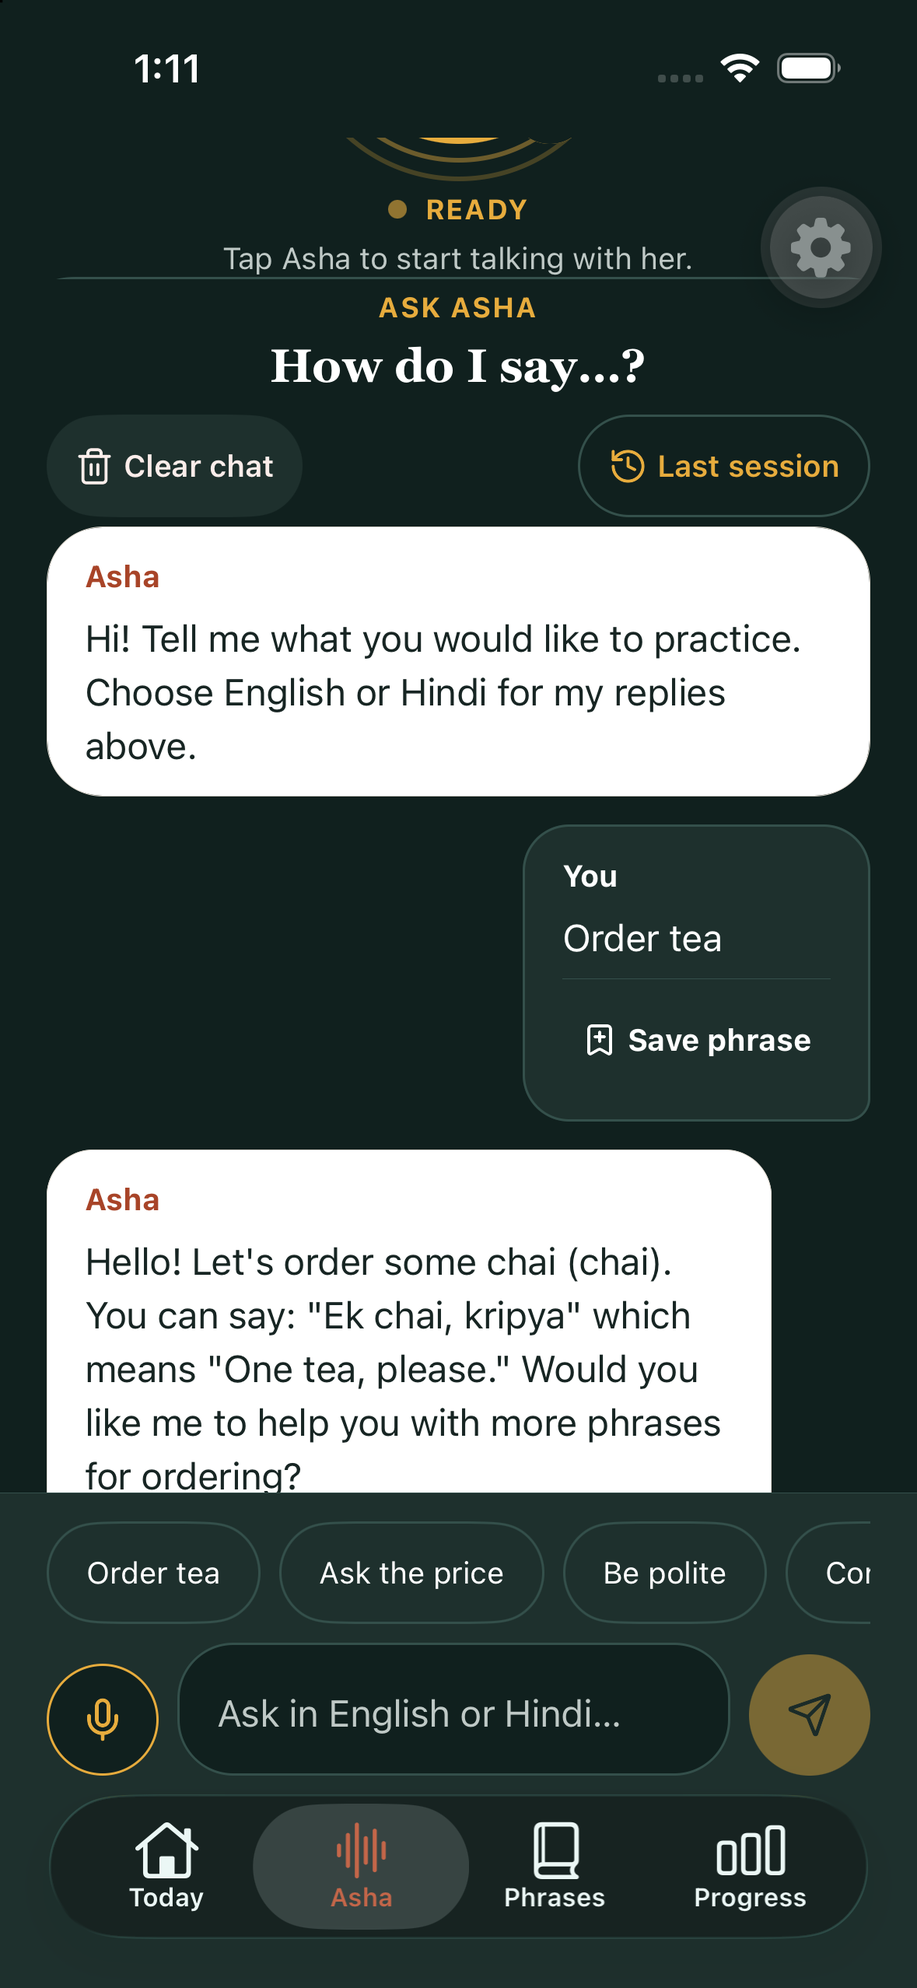
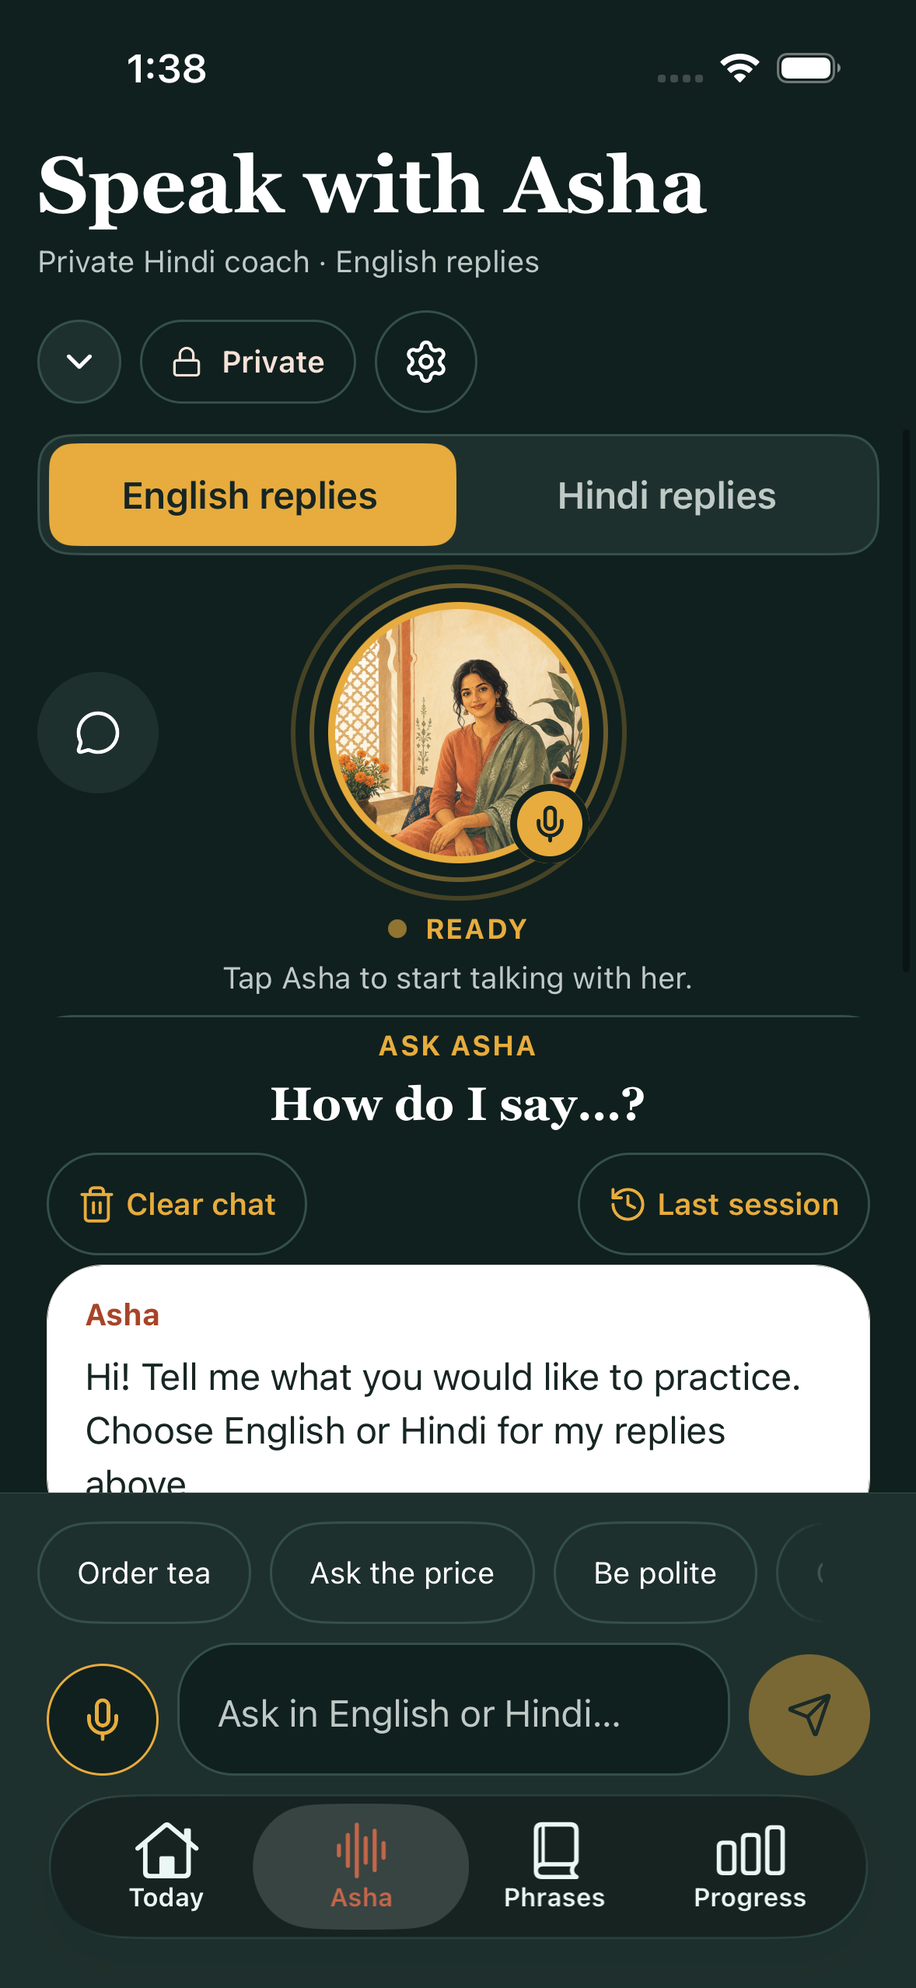
Pin Settings in the Asha header and soften the suggestion-chip peek.
The gear stays in the header, outside the chat scroll. Clear chat and Last session share one outline style. The chip row keeps a short faded peek inside a 16pt inset.

diff --git a/src/app/(tabs)/live.tsx b/src/app/(tabs)/live.tsx
@@ -2,7 +2,7 @@ import { useFocusEffect, useRouter, type Href } from 'expo-router';
 import { Image } from 'expo-image';
 import { setStatusBarStyle } from 'expo-status-bar';
 import { PressableFeedback } from 'heroui-native/pressable-feedback';
-import { AlertCircle, History, Lock, MessageCircle, Mic, MicOff, Sprout, Trash2, Volume2, X } from 'lucide-react-native';
+import { AlertCircle, History, Lock, MessageCircle, Mic, MicOff, Settings, Sprout, Trash2, Volume2, X } from 'lucide-react-native';
 import { useCallback, useEffect, useLayoutEffect, useMemo, useRef, useState, type ReactNode } from 'react';
 import { ActivityIndicator, Animated, AppState, Dimensions, FlatList, Keyboard, KeyboardAvoidingView, Linking, Platform, ScrollView, StyleSheet, Text, useWindowDimensions, View, type StyleProp, type ViewStyle } from 'react-native';
 import { SafeAreaView, useSafeAreaInsets } from 'react-native-safe-area-context';
@@ -41,6 +41,19 @@ import { isFloatingAshaMinimized, useAshaVoiceSession } from '@/state/asha-voice
 import { useAppState } from '@/state/app-state';
 import type { ChatMessage, AshaResponseLanguage, SavedPhrase, StructuredPhrase, StructuredReply } from '@/state/app-state-types';
 import { displayFont, hindiType, layout, makeStyles, maxContentWidth, radius, spacing, useTheme, type } from '@/theme';
+
+/** Width of the chip scroller so the next chip peeks by `peek` points inside `available`. */
+export function visibleChipRowWidth(widths: readonly number[], available: number, peek: number, gap: number): number {
+  if (available <= 0 || widths.length === 0 || widths.some((width) => width <= 0)) return available;
+  let cursor = 0;
+  for (let index = 0; index < widths.length; index += 1) {
+    const width = widths[index] ?? 0;
+    if (cursor + width > available) return Math.min(available, cursor + peek);
+    cursor += width;
+    if (index < widths.length - 1) cursor += gap;
+  }
+  return Math.min(available, cursor);
+}
 
 const welcome: ChatMessage = {
   id: 'welcome',
@@ -106,8 +119,8 @@ export default function LiveScreen() {
   const heroContentWidth = Math.max(288, Math.min(420, windowWidth - spacing.xxl));
   const compactVoiceLayout = windowHeight < 760;
   const largeTextLayout = useLargeTextLayout();
-  // 390 and wider fit the title and Private badge on one row. Narrower phones stack them.
-  const reflowHeaderLayout = largeTextLayout || fontScale >= 1.2 || windowWidth < 390;
+  // Settings shares this row, so a 393pt phone stacks the title above the actions.
+  const reflowHeaderLayout = largeTextLayout || fontScale >= 1.2 || windowWidth < 440;
   const { elapsedSeconds, reset: resetPracticeTimer, touch: touchPracticeTimer } = useForegroundTimer();
   const { addPracticeSeconds, aiConsent, appendChatMessages, replaceLiveChatSnapshot, chatHistory, clearChatHistory, clientId, learnerProfile, markLiveTurn, motionPreference = DEFAULT_MOTION_PREFERENCE, phraseReviews = {}, phrases = [], togglePhrase, updateLearnerProfile } = useAppState();
   const { mode: motionMode, reducedMotion } = useMotionPreference(motionPreference);
@@ -205,6 +218,9 @@ export default function LiveScreen() {
   }, []);
   const composerMicActionRef = useRef<(() => void) | null>(null);
   const [composerMicActionBound, setComposerMicActionBound] = useState(false);
+  const [chipClipWidth, setChipClipWidth] = useState(0);
+  const [chipWidths, setChipWidths] = useState<number[]>([0, 0, 0, 0]);
+  const chipViewportWidth = visibleChipRowWidth(chipWidths, chipClipWidth, layout.chipPeek, spacing.sm);
   const visibleMessages = useMemo(
     () => clearingChat ? [welcome] : pendingUserMessage ? [welcome, ...chatHistory, pendingUserMessage] : [welcome, ...chatHistory],
     [chatHistory, clearingChat, pendingUserMessage],
@@ -801,7 +817,7 @@ export default function LiveScreen() {
       style={[styles.lastSessionButton, !aiConsent && styles.lastSessionButtonConsent]}
     >
       <History color={colors.gold} size={17} />
-      <Text style={styles.lastSessionText}>Last session</Text>
+      <Text style={styles.secondaryActionText}>Last session</Text>
     </Pressable>
   ) : null;
 
@@ -881,8 +897,36 @@ export default function LiveScreen() {
     ? { disconnected: 'READY', connecting: 'CONNECTING', ready: 'MUTED', recording: 'LISTENING', responding: 'SPEAKING' }[realtimeStatus]
     : 'LIVE VOICE';
 
+  const headerTopbar = (
+    <View style={[styles.topbar, reflowHeaderLayout && styles.topbarLarge, { width: heroContentWidth }]} testID="asha-header-topbar">
+      <View style={[styles.headerIdentity, reflowHeaderLayout && styles.headerIdentityLarge]}>
+        <View style={[styles.headerCopy, reflowHeaderLayout && styles.headerCopyStacked]}>
+          <JournalDisplay numberOfLines={reflowHeaderLayout ? undefined : 2} style={[styles.headerTitle, reflowHeaderLayout && styles.headerTitleStacked]}>Speak with Asha</JournalDisplay>
+          <Text numberOfLines={reflowHeaderLayout ? undefined : 1} style={[styles.headerSubtitle, reflowHeaderLayout && styles.headerSubtitleStacked]}>Private Hindi coach · {responseLanguageName} replies</Text>
+        </View>
+      </View>
+      <View style={[styles.headerActions, reflowHeaderLayout && styles.headerActionsStacked]}>
+        {floatingAsha.available && aiConsent ? (
+          <AshaMinimizeButton onPress={floatingAsha.minimize} />
+        ) : null}
+        <View accessibilityLabel="Private conversation" style={styles.privateBadge}>
+          <Lock color={colors.brandSoft} size={14} strokeWidth={2} />
+          <Text style={styles.privateText}>Private</Text>
+        </View>
+        <Pressable accessibilityLabel="Settings" accessibilityRole="button" onPress={() => router.push('/settings')} style={styles.headerSettings} testID="asha-settings">
+          <Settings color={colors.white} size={20} strokeWidth={2} />
+        </Pressable>
+      </View>
+    </View>
+  );
+
   return (
     <KeyboardAvoidingView behavior={Platform.OS === 'ios' ? 'padding' : undefined} style={styles.screen}>
+      <View style={[styles.screenHeader, { paddingTop: insets.top }]}>
+        {floatingAsha.available
+          ? <AshaSwipeToMinimize onMinimize={floatingAsha.minimize}>{headerTopbar}</AshaSwipeToMinimize>
+          : headerTopbar}
+      </View>
       <FlatList
         ref={listRef}
         contentInsetAdjustmentBehavior="never"
@@ -903,35 +947,11 @@ export default function LiveScreen() {
         keyExtractor={(message) => message.id}
         keyboardDismissMode="interactive"
         keyboardShouldPersistTaps="handled"
-        style={[styles.list, { marginTop: insets.top }]}
+        style={styles.list}
         testID="live-chat-list"
         ListHeaderComponent={(
           <View>
             <View style={[styles.voiceHero, compactVoiceLayout && styles.voiceHeroCompact, restingVoiceLayout && styles.voiceHeroResting, largeTextLayout && styles.voiceHeroLarge, { paddingTop: restingVoiceLayout ? spacing.xs : spacing.md }]} testID="voice-conversation-hero">
-              {(() => {
-                const topbar = (
-                  <View style={[styles.topbar, reflowHeaderLayout && styles.topbarLarge, { width: heroContentWidth }]} testID="asha-header-topbar">
-                    <View style={[styles.headerIdentity, reflowHeaderLayout && styles.headerIdentityLarge]}>
-                      <View style={[styles.headerCopy, reflowHeaderLayout && styles.headerCopyStacked]}>
-                        <JournalDisplay numberOfLines={reflowHeaderLayout ? undefined : 2} style={[styles.headerTitle, reflowHeaderLayout && styles.headerTitleStacked]}>Speak with Asha</JournalDisplay>
-                        <Text numberOfLines={reflowHeaderLayout ? undefined : 1} style={[styles.headerSubtitle, reflowHeaderLayout && styles.headerSubtitleStacked]}>Private Hindi coach · {responseLanguageName} replies</Text>
-                      </View>
-                    </View>
-                    <View style={[styles.headerActions, reflowHeaderLayout && styles.headerActionsStacked]}>
-                      {floatingAsha.available && aiConsent ? (
-                        <AshaMinimizeButton onPress={floatingAsha.minimize} />
-                      ) : null}
-                      <View accessibilityLabel="Private conversation" style={styles.privateBadge}>
-                        <Lock color={colors.brandSoft} size={14} strokeWidth={2} />
-                        <Text style={styles.privateText}>Private</Text>
-                      </View>
-                    </View>
-                  </View>
-                );
-                return floatingAsha.available
-                  ? <AshaSwipeToMinimize onMinimize={floatingAsha.minimize}>{topbar}</AshaSwipeToMinimize>
-                  : topbar;
-              })()}
               {!aiConsent ? (
                 <View style={[styles.liveControls, { width: heroContentWidth }]} testID="live-voice-controls">
                   <View style={[styles.inviteRing, compactVoiceLayout && styles.inviteRingCompact]}>
@@ -1064,8 +1084,8 @@ export default function LiveScreen() {
                         onPress={confirmClearChat}
                         style={[styles.clearChatButton, clearChatDisabled && styles.disabled]}
                       >
-                        <Trash2 color={colors.dangerSoft} size={17} />
-                        <Text style={styles.clearChatText}>Clear chat</Text>
+                        <Trash2 color={colors.gold} size={17} />
+                        <Text style={styles.secondaryActionText}>Clear chat</Text>
                       </Pressable>
                     ) : null}
                     <View style={styles.lastSessionSlot}>{lastSessionButton}</View>
@@ -1182,7 +1202,14 @@ export default function LiveScreen() {
             </Pressable>
           </View>
         ) : null}
-        <View style={styles.exampleClip}>
+        <View
+          onLayout={(event) => {
+            const width = event.nativeEvent.layout.width;
+            setChipClipWidth((current) => (current === width ? current : width));
+          }}
+          style={styles.exampleClip}
+        >
+          <View style={[styles.exampleViewport, chipViewportWidth > 0 && { width: chipViewportWidth }]}>
           <ScrollView
             horizontal
             keyboardShouldPersistTaps="handled"
@@ -1192,18 +1219,39 @@ export default function LiveScreen() {
             testID="live-example-chips"
           >
             {['Order tea', 'Ask the price', 'Be polite', 'Correct my Hindi'].map((example, index, examples) => (
-              <PressableFeedback
-                accessibilityRole="button"
-                accessibilityState={{ disabled: busy || clearingChat || realtimeLocked }}
-                isDisabled={busy || clearingChat || realtimeLocked}
+              <View
                 key={example}
-                onPress={() => { void sendText(example); }}
-                style={[styles.example, index < examples.length - 1 && styles.exampleSpacer, (busy || clearingChat || realtimeLocked) && styles.disabled]}
+                onLayout={(event) => {
+                  const width = event.nativeEvent.layout.width;
+                  setChipWidths((current) => {
+                    if (current[index] === width) return current;
+                    const next = current.slice();
+                    next[index] = width;
+                    return next;
+                  });
+                }}
+                style={index < examples.length - 1 ? styles.exampleSpacer : undefined}
               >
-                <Text style={styles.exampleText}>{example}</Text>
-              </PressableFeedback>
+                <PressableFeedback
+                  accessibilityRole="button"
+                  accessibilityState={{ disabled: busy || clearingChat || realtimeLocked }}
+                  isDisabled={busy || clearingChat || realtimeLocked}
+                  onPress={() => { void sendText(example); }}
+                  style={[styles.example, (busy || clearingChat || realtimeLocked) && styles.disabled]}
+                >
+                  <Text style={styles.exampleText}>{example}</Text>
+                </PressableFeedback>
+              </View>
             ))}
           </ScrollView>
+          {chipClipWidth > 0 && chipViewportWidth < chipClipWidth - 1 ? (
+            <View accessibilityElementsHidden importantForAccessibility="no-hide-descendants" pointerEvents="none" style={styles.chipFade}>
+              {Array.from({ length: 6 }, (_, index) => (
+                <View key={index} style={[styles.chipFadeStrip, { opacity: (index + 1) / 6 }]} />
+              ))}
+            </View>
+          ) : null}
+          </View>
         </View>
         <View style={styles.composerEntry}>
           {conversationStarted && composerMicActionBound ? (
@@ -1244,7 +1292,9 @@ export const createLiveStyles = (c: ReturnType<typeof useTheme>['colors']) => ({
     overflow: 'hidden',
   },
   voiceHeroCompact: { gap: spacing.xs, paddingBottom: spacing.xs },
-  voiceHeroResting: { gap: 0, paddingBottom: 0 },
+  voiceHeroResting: { gap: 0, paddingBottom: spacing.sm },
+  screenHeader: { alignItems: 'center', backgroundColor: c.night, paddingBottom: spacing.xs },
+  headerSettings: { width: layout.touchTarget, height: layout.touchTarget, minWidth: layout.touchTarget, minHeight: layout.touchTarget, alignItems: 'center', justifyContent: 'center', borderRadius: radius.pill, borderCurve: 'continuous', borderColor: c.nightLine, borderWidth: 1 },
   voiceHeroLarge: { overflow: 'visible' },
   topbar: { minHeight: 48, alignSelf: 'center', flexDirection: 'row', alignItems: 'center', justifyContent: 'space-between', gap: spacing.md },
   topbarLarge: { alignItems: 'stretch', flexDirection: 'column', gap: spacing.md, minHeight: 0, paddingRight: 0 },
@@ -1314,11 +1364,10 @@ export const createLiveStyles = (c: ReturnType<typeof useTheme>['colors']) => ({
   lastSessionSlot: { marginLeft: 'auto', maxWidth: '100%', flexShrink: 0 },
   askEyebrow: { ...type.eyebrow, alignSelf: 'stretch', color: c.gold, textAlign: 'center' },
   askTitle: { ...type.headline, alignSelf: 'stretch', color: c.white, textAlign: 'center', fontWeight: '600' },
-  clearChatButton: { minHeight: layout.touchTarget, maxWidth: '100%', flexShrink: 0, flexDirection: 'row', gap: spacing.xs, paddingHorizontal: spacing.md, paddingVertical: spacing.sm, borderRadius: radius.pill, borderCurve: 'continuous', backgroundColor: c.nightSurface, alignItems: 'center', justifyContent: 'center' },
-  clearChatText: { ...type.caption, flexShrink: 1, color: c.dangerSoft, textAlign: 'center', fontWeight: '600' },
-  lastSessionButton: { minHeight: layout.touchTarget, maxWidth: '100%', flexShrink: 0, flexDirection: 'row', gap: spacing.xs, paddingHorizontal: spacing.md, paddingVertical: spacing.sm, borderRadius: radius.pill, borderCurve: 'continuous', borderColor: c.nightLine, borderWidth: 1, alignItems: 'center', justifyContent: 'center' },
+  clearChatButton: { minHeight: layout.touchTarget, maxWidth: '100%', flexShrink: 0, flexDirection: 'row', gap: spacing.xs, paddingHorizontal: spacing.md, paddingVertical: spacing.sm, borderRadius: radius.pill, borderCurve: 'continuous', backgroundColor: 'transparent', borderColor: c.nightLine, borderWidth: 1, alignItems: 'center', justifyContent: 'center' },
+  lastSessionButton: { minHeight: layout.touchTarget, maxWidth: '100%', flexShrink: 0, flexDirection: 'row', gap: spacing.xs, paddingHorizontal: spacing.md, paddingVertical: spacing.sm, borderRadius: radius.pill, borderCurve: 'continuous', backgroundColor: 'transparent', borderColor: c.nightLine, borderWidth: 1, alignItems: 'center', justifyContent: 'center' },
   lastSessionButtonConsent: { alignSelf: 'center', marginTop: spacing.sm },
-  lastSessionText: { ...type.caption, flexShrink: 1, color: c.gold, textAlign: 'center', fontWeight: '600' },
+  secondaryActionText: { ...type.caption, flexShrink: 1, color: c.gold, textAlign: 'center', fontWeight: '600' },
   failedReportText: { color: c.dangerSoft },
   queuedReports: { gap: spacing.sm, marginTop: spacing.md },
   queuedReportsTitle: { ...type.caption, color: c.heroSubtle, fontWeight: '700' },
@@ -1367,11 +1416,14 @@ export const createLiveStyles = (c: ReturnType<typeof useTheme>['colors']) => ({
   correctionSayRoman: { color: c.forestText },
   correctionEnglish: { ...type.caption, width: '100%', color: c.muted },
   correctionNote: { ...type.caption, color: c.muted, paddingHorizontal: spacing.md, paddingVertical: spacing.sm, borderTopWidth: StyleSheet.hairlineWidth, borderTopColor: c.line },
-  composer: { width: '100%', alignSelf: 'stretch', backgroundColor: c.nightSurface, borderTopColor: c.nightLine, borderTopWidth: StyleSheet.hairlineWidth, paddingHorizontal: layout.chipEndInset, paddingTop: spacing.md, gap: spacing.sm },
-  // The scroller stays inside the gutter. flexGrow 0 stops the row from painting out to the screen edge.
-  exampleClip: { alignSelf: 'stretch', overflow: 'hidden' },
-  exampleScroller: { flexGrow: 0 },
-  examples: { flexDirection: 'row', alignItems: 'center', paddingRight: layout.chipEndInset },
+  composer: { width: '100%', alignSelf: 'stretch', backgroundColor: c.nightSurface, borderTopColor: c.nightLine, borderTopWidth: StyleSheet.hairlineWidth, paddingHorizontal: spacing.gutter, paddingTop: spacing.md, gap: spacing.sm },
+  // Pull the row out to the 16pt inset. The scroller width then stops after a short peek of the next chip.
+  exampleClip: { alignSelf: 'stretch', overflow: 'hidden', marginHorizontal: layout.chipScrollInset - spacing.gutter },
+  exampleViewport: { alignSelf: 'flex-start', maxWidth: '100%', position: 'relative' },
+  exampleScroller: { flexGrow: 0, width: '100%' },
+  chipFade: { position: 'absolute', top: 0, bottom: 0, right: 0, width: layout.chipPeek, flexDirection: 'row' },
+  chipFadeStrip: { flex: 1, backgroundColor: c.nightSurface },
+  examples: { flexDirection: 'row', alignItems: 'center', paddingRight: layout.chipScrollInset },
   exampleSpacer: { marginRight: spacing.sm },
   example: { minHeight: layout.touchTarget, flexShrink: 0, borderRadius: radius.pill, borderCurve: 'continuous', backgroundColor: 'transparent', borderColor: c.nightLine, borderWidth: 1, justifyContent: 'center', alignItems: 'center', paddingHorizontal: spacing.lg },
   exampleText: { ...type.caption, color: c.white, textAlign: 'center' },

diff --git a/__tests__/live-runtime-regressions.test.tsx b/__tests__/live-runtime-regressions.test.tsx
@@ -2,7 +2,7 @@ import { act, fireEvent, render, waitFor, within } from '@testing-library/react-
 import * as mockReact from 'react';
 import { Alert, Animated, AppState, Dimensions, FlatList, Keyboard, Linking, Pressable as MockPressable, StyleSheet, Text as MockText, type StyleProp, type TextStyle } from 'react-native';
 
-import LiveScreen, { createLiveStyles } from '../src/app/(tabs)/live';
+import LiveScreen, { createLiveStyles, visibleChipRowWidth } from '../src/app/(tabs)/live';
 import { romanizeDevanagari } from '../src/lib/devanagari-romanization';
 import { layout, lightColors, spacing } from '../src/theme';
 
@@ -56,6 +56,7 @@ jest.mock('lucide-react-native', () => ({
   Mic: () => null,
   MicOff: () => null,
   Send: () => null,
+  Settings: () => null,
   Sparkles: () => null,
   Sprout: () => null,
   Trash2: () => null,
@@ -782,6 +783,14 @@ describe('live composer bottom inset', () => {
   }, 20_000);
 });
 
+describe('suggestion chip row width', () => {
+  it('keeps a short peek of the next chip inside the inset', () => {
+    expect(visibleChipRowWidth([100, 100, 100, 100], 360, layout.chipPeek, spacing.sm)).toBe(348);
+    expect(visibleChipRowWidth([80, 80], 300, layout.chipPeek, spacing.sm)).toBe(168);
+    expect(visibleChipRowWidth([0, 0, 0, 0], 300, layout.chipPeek, spacing.sm)).toBe(300);
+  });
+});
+
 describe('live theme styles', () => {
   it('paints the chat list, bubbles, and composer from the active palette', () => {
     const styles = createLiveStyles(lightColors);
@@ -805,11 +814,20 @@ describe('live theme styles', () => {
     expect('minHeight' in styles.voiceHeroCompact).toBe(false);
     expect('flexWrap' in styles.examples).toBe(false);
     expect(styles.examples.flexDirection).toBe('row');
-    expect(styles.examples.paddingRight).toBe(layout.chipEndInset);
-    expect(styles.composer.paddingHorizontal).toBe(layout.chipEndInset);
+    expect(styles.examples.paddingRight).toBe(layout.chipScrollInset);
+    expect(styles.composer.paddingHorizontal).toBe(spacing.gutter);
     expect(styles.exampleClip.overflow).toBe('hidden');
+    expect(styles.exampleClip.marginHorizontal).toBe(layout.chipScrollInset - spacing.gutter);
     expect(styles.exampleScroller.flexGrow).toBe(0);
     expect(layout.chipEndInset).toBe(spacing.gutter);
+    expect(layout.chipScrollInset).toBe(spacing.lg);
+    expect(layout.chipPeek).toBe(spacing.xl);
+    expect(styles.voiceHeroResting.paddingBottom).toBe(spacing.sm);
+    expect(styles.headerSettings.minHeight).toBe(layout.touchTarget);
+    expect(styles.clearChatButton.borderWidth).toBe(styles.lastSessionButton.borderWidth);
+    expect(styles.clearChatButton.backgroundColor).toBe('transparent');
+    expect(styles.lastSessionButton.backgroundColor).toBe('transparent');
+    expect(styles.clearChatButton.borderColor).toBe(styles.lastSessionButton.borderColor);
     expect(layout.touchTarget).toBe(44);
     expect(styles.askHeading.flexDirection).toBe('column');
     expect(styles.askTitle.alignSelf).toBe('stretch');
@@ -851,8 +869,10 @@ describe('live theme styles', () => {
       expect(chips.props.horizontal).toBe(true);
       expect(StyleSheet.flatten(chips.props.contentContainerStyle)).toMatchObject({
         flexDirection: 'row',
-        paddingRight: layout.chipEndInset,
+        paddingRight: layout.chipScrollInset,
       });
+      expect(view.getByLabelText('Settings')).toBeTruthy();
+      expect(view.queryByLabelText('Clear Asha chat history')).toBeNull();
       expect(StyleSheet.flatten(chips.props.contentContainerStyle).flexWrap).toBeUndefined();
       expect(view.getByRole('button', { name: 'Correct my Hindi' })).toBeTruthy();
       await view.unmount();

diff --git a/src/theme.ts b/src/theme.ts
@@ -107,8 +107,12 @@ export const spacing = {
 export const layout = {
   /** Smallest height of a tappable control. */
   touchTarget: 44,
-  /** Trailing space after the last suggestion chip. Same width as the screen gutter. */
+  /** Trailing space after the last suggestion chip once the row is scrolled to the end. Same width as the screen gutter. */
   chipEndInset: spacing.gutter,
+  /** Space between the suggestion row and the screen edge. */
+  chipScrollInset: spacing.lg,
+  /** How much of the next chip stays in view so the row shows it can scroll. */
+  chipPeek: spacing.xl,
 } as const;
 
 export const radius = {
